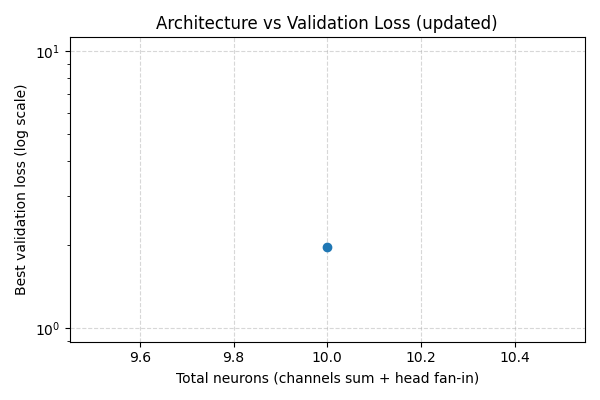
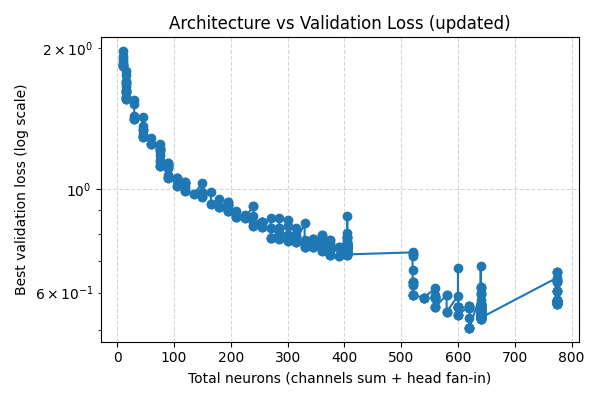
Commit

diff --git a/CNN/run_cnn_stl.py b/CNN/run_cnn_stl.py
@@ -1,69 +1,83 @@
-# train_adp_cnn_width_cifar10.py
+
 import argparse
+import json
+import os
+import time
+from typing import Tuple, List
+
 import torch
+import torch.nn as nn
+import torch.optim as optim
 from torch.utils.data import DataLoader, Subset
 import torchvision
 import torchvision.transforms as T
 
-from adp_cnn_width import Config as Cfg, ADP_CNN_Width
+# Import the STL CNN
+from CNN_STL import ConvNetSTL  # requires CNN_STL.py in the same folder
 
-# --------- CIFAR-10 stats ---------
-CIFAR10_MEAN = (0.4914, 0.4822, 0.4465)
-CIFAR10_STD  = (0.2470, 0.2435, 0.2616)
+# -------------------- CIFAR stats --------------------
+CIFAR10_MEAN, CIFAR10_STD   = (0.4914, 0.4822, 0.4465), (0.2470, 0.2435, 0.2616)
+CIFAR100_MEAN, CIFAR100_STD = (0.5071, 0.4867, 0.4408), (0.2675, 0.2565, 0.2761)
 
-def device_auto():
+
+def device_auto() -> torch.device:
     return torch.device("cuda" if torch.cuda.is_available() else "cpu")
 
-def make_loaders_cifar10(
-    data_root="data",
-    batch_size=128,
-    val_split=5000,   # 10% of the 50k train set by default
-    num_workers=0,
-    pin_memory=True,
-    download=False,   # do NOT re-download unless explicitly asked
-):
+
+def make_loaders(
+    dataset: str,
+    data_root: str = "data",
+    batch_size: int = 128,
+    val_split: int = 5000,
+    num_workers: int = 4,
+    pin_memory: bool = True,
+    download: bool = False,
+) -> Tuple[DataLoader, DataLoader, DataLoader, int]:
     """
-    CIFAR-10 loaders (all 10 classes, full dataset):
-      - train: RandomCrop+Flip + Normalize
-      - val/test: only Normalize
-    Uses separate dataset instances for train/val to avoid transform leakage.
-    Deterministic split with a fixed seed.
+    Create train/val/test loaders for CIFAR-10 or CIFAR-100 with standard aug.
+    Returns loaders and num_classes.
     """
+    dataset = dataset.lower()
+    if dataset not in {"cifar10", "cifar100"}:
+        raise ValueError("dataset must be 'cifar10' or 'cifar100'")
+
+    if dataset == "cifar10":
+        MEAN, STD = CIFAR10_MEAN, CIFAR10_STD
+        ds_train = torchvision.datasets.CIFAR10
+        ds_test  = torchvision.datasets.CIFAR10
+        num_classes = 10
+    else:
+        MEAN, STD = CIFAR100_MEAN, CIFAR100_STD
+        ds_train = torchvision.datasets.CIFAR100
+        ds_test  = torchvision.datasets.CIFAR100
+        num_classes = 100
+
     train_tfms = T.Compose([
         T.RandomCrop(32, padding=4),
         T.RandomHorizontalFlip(),
         T.ToTensor(),
-        T.Normalize(CIFAR10_MEAN, CIFAR10_STD),
+        T.Normalize(MEAN, STD),
     ])
     eval_tfms = T.Compose([
         T.ToTensor(),
-        T.Normalize(CIFAR10_MEAN, CIFAR10_STD),
+        T.Normalize(MEAN, STD),
     ])
 
-    # Independent datasets so transforms don't clash via shared .dataset
-    train_ds_aug = torchvision.datasets.CIFAR10(
-        root=data_root, train=True, download=download, transform=train_tfms
-    )
-    train_ds_eval = torchvision.datasets.CIFAR10(
-        root=data_root, train=True, download=False, transform=eval_tfms
-    )
-    test_ds = torchvision.datasets.CIFAR10(
-        root=data_root, train=False, download=False, transform=eval_tfms
-    )
+    train_ds_aug = ds_train(root=data_root, train=True, download=download, transform=train_tfms)
+    train_ds_eval = ds_train(root=data_root, train=True, download=False, transform=eval_tfms)
+    test_ds = ds_test(root=data_root, train=False, download=False, transform=eval_tfms)
 
-    total_train = len(train_ds_aug)  # 50_000
+    total_train = len(train_ds_aug)
     if val_split >= total_train:
-        # Keep ~20% for validation if requested split is too large
-        val_split = max(1, int(0.2 * total_train))
+        val_split = max(1, int(0.2 * total_train))  # keep ~20% if requested too large
     n_train = total_train - val_split
 
-    # Deterministic split
     g = torch.Generator().manual_seed(42)
     perm = torch.randperm(total_train, generator=g).tolist()
     train_idx_subset = perm[:n_train]
     val_idx_subset   = perm[n_train:]
 
-    train_ds = Subset(train_ds_aug,  train_idx_subset)
+    train_ds = Subset(train_ds_aug, train_idx_subset)
     val_ds   = Subset(train_ds_eval, val_idx_subset)
 
     train_loader = DataLoader(
@@ -81,55 +95,207 @@ def make_loaders_cifar10(
         num_workers=num_workers, pin_memory=pin_memory,
         persistent_workers=(num_workers > 0),
     )
-    return train_loader, val_loader, test_loader
+    return train_loader, val_loader, test_loader, num_classes
+
+
[email redacted]_grad()
+def evaluate(model: nn.Module, loader: DataLoader, device: torch.device) -> Tuple[float, float]:
+    model.eval()
+    total, correct, total_loss = 0, 0, 0.0
+    criterion = nn.CrossEntropyLoss()
+    for x, y in loader:
+        x, y = x.to(device), y.to(device)
+        logits = model(x)
+        total_loss += criterion(logits, y).item() * y.size(0)
+        pred = logits.argmax(dim=1)
+        correct += (pred == y).sum().item()
+        total += y.size(0)
+    return total_loss / total, correct / total
+
+
+def train(
+    model: nn.Module,
+    train_loader: DataLoader,
+    val_loader: DataLoader,
+    device: torch.device,
+    epochs: int = 50,
+    lr: float = 1e-3,
+    weight_decay: float = 1e-4,
+    patience: int = 10,
+    log_every: int = 1,
+) -> dict:
+    model.to(device)
+    criterion = nn.CrossEntropyLoss()
+    optimizer = optim.AdamW(model.parameters(), lr=lr, weight_decay=weight_decay)
+
+    best_val = float("inf")
+    best_acc = 0.0
+    bad = 0
+    history = []
+
+    for epoch in range(1, epochs + 1):
+        model.train()
+        running = 0.0
+        n = 0
+        for x, y in train_loader:
+            x, y = x.to(device), y.to(device)
+            optimizer.zero_grad(set_to_none=True)
+            logits = model(x)
+            loss = criterion(logits, y)
+            loss.backward()
+            optimizer.step()
+            running += loss.item() * y.size(0)
+            n += y.size(0)
+
+        train_loss = running / max(1, n)
+        val_loss, val_acc = evaluate(model, val_loader, device)
+
+        history.append({
+            "epoch": epoch,
+            "train_loss": train_loss,
+            "val_loss": val_loss,
+            "val_acc": val_acc,
+        })
+
+        if epoch % log_every == 0:
+            print(f"[epoch {epoch}/{epochs}] "
+                  f"train_loss={train_loss:.4f} | val_loss={val_loss:.4f} | val_acc={val_acc:.4f}")
+
+        improved = val_loss < best_val - 1e-6  # tiny margin
+        if improved:
+            best_val = val_loss
+            best_acc = val_acc
+            bad = 0
+            torch.save(model.state_dict(), "ConvNetSTL_best.pth")
+        else:
+            bad += 1
+            if bad >= patience:
+                print(f"Early stopping at epoch {epoch} (no improvement for {patience} epochs).")
+                break
+
+    return {
+        "best_val_loss": best_val,
+        "best_val_acc": best_acc,
+        "history": history,
+    }
+
+
+def parse_pooling(arg: str) -> List[int]:
+    """
+    Parse a comma-separated list of integers like '1,3'.
+    Returns a sorted list; empty string -> []
+    """
+    if arg.strip() == "":
+        return []
+    out = sorted({int(x) for x in arg.split(",")})
+    for v in out:
+        if v < 0:
+            raise ValueError("pool indices must be >= 0")
+    return out
+
 
 def main():
-    ap = argparse.ArgumentParser()
-    ap.add_argument("--smoke", action="store_true", help="Tiny budget sanity run")
-    ap.add_argument("--data-root", type=str, default="data", help="Where CIFAR-10 is stored")
-    ap.add_argument("--batch-size", type=int, default=128)
-    ap.add_argument("--num-workers", type=int, default=4)
-    ap.add_argument("--val-split", type=int, default=5000)
-    ap.add_argument("--download", action="store_true", help="Download CIFAR-10 if missing")
-    args = ap.parse_args()
+    parser = argparse.ArgumentParser(description="Run ConvNetSTL on CIFAR-10/100")
+    # Data
+    parser.add_argument("--dataset", type=str, default="cifar100", choices=["cifar10", "cifar100"])
+    parser.add_argument("--data-root", type=str, default="data")
+    parser.add_argument("--batch-size", type=int, default=128)
+    parser.add_argument("--num-workers", type=int, default=4)
+    parser.add_argument("--val-split", type=int, default=5000)
+    parser.add_argument("--download", action="store_true")
 
-    params = dict(
-        delta=0.0,
-        trials_width=10,
-        trials_depth=10,     # kept at 10 if your width-search variant also iterates depth
-        patience=10,
-        max_epochs=100000,
-        init_widths=[10],    # <<< init width = 10
-        num_classes=10,      # full CIFAR-10
-        pooling_indices=[0],
-        lr=1e-3,
-        weight_decay=1e-2,
-        ex_k=10,             # <<< per-loop expansion factor = 10 (if used)
-        max_neurons=1_000_000,
-        max_depth=10000,
-        max_width=10000,
-    )
-    if args.smoke:
-        params.update(dict(max_epochs=5, patience=2))
+    # Model (STL) hyperparameters exposed here
+    parser.add_argument("--width", type=int, default=64, help="channels per block")
+    parser.add_argument("--depth", type=int, default=4, help="number of ConvBNReLU blocks (>=1)")
+    parser.add_argument("--pool", type=parse_pooling, default="1,3",
+                        help="comma-separated block indices after which to apply 2x2 MaxPool, e.g. '1,3'")
 
-    dev = device_auto()
-    train_loader, val_loader, test_loader = make_loaders_cifar10(
+    # Optimization
+    parser.add_argument("--epochs", type=int, default=50)
+    parser.add_argument("--lr", type=float, default=1e-3)
+    parser.add_argument("--weight-decay", type=float, default=1e-4)
+    parser.add_argument("--patience", type=int, default=10)
+
+    # Misc
+    parser.add_argument("--seed", type=int, default=42)
+    parser.add_argument("--device", type=str, default="auto", choices=["auto", "cpu", "cuda"])
+    parser.add_argument("--save-prefix", type=str, default="ConvNetSTL")
+    parser.add_argument("--log-every", type=int, default=1)
+
+    args = parser.parse_args()
+
+    # Seed & device
+    torch.manual_seed(args.seed)
+    if args.device == "auto":
+        device = device_auto()
+    else:
+        device = torch.device(args.device)
+
+    torch.backends.cudnn.benchmark = True
+
+    # Load data
+    train_loader, val_loader, test_loader, num_classes = make_loaders(
+        dataset=args.dataset,
         data_root=args.data_root,
         batch_size=args.batch_size,
-        num_workers=args.num_workers,
         val_split=args.val_split,
+        num_workers=args.num_workers,
         download=args.download,
     )
 
-    cfg = Cfg(**params)
-    model = ADP_CNN_Width(cfg, device=dev)
+    # Build model
+    model = ConvNetSTL(
+        input_channels=3,
+        num_classes=num_classes,
+        width=args.width,
+        depth=args.depth,
+        pooling_indices=args.pool,
+    )
 
-    model.fit(train_loader, val_loader)
-    test_loss, test_acc = model.evaluate(test_loader)
-    print(f"[ADP_CNN_Width-CIFAR10] test_loss={test_loss:.4f} acc={test_acc:.4f}")
+    # Train
+    t0 = time.time()
+    stats = train(
+        model, train_loader, val_loader, device,
+        epochs=args.epochs, lr=args.lr, weight_decay=args.weight_decay,
+        patience=args.patience, log_every=args.log_every
+    )
+    train_time = time.time() - t0
 
-    torch.save(model.model.state_dict(), "ADP_CNN_Width_CIFAR10.pth")
-    print("Saved: ADP_CNN_Width_CIFAR10.pth")
+    # Evaluate best checkpoint on test
+    if os.path.exists("ConvNetSTL_best.pth"):
+        model.load_state_dict(torch.load("ConvNetSTL_best.pth", map_location=device))
+    test_loss, test_acc = evaluate(model.to(device), test_loader, device)
+
+    # Save final artifacts
+    out_prefix = args.save_prefix
+    final_path = f"{out_prefix}.pth"
+    torch.save(model.state_dict(), final_path)
+
+    report = {
+        "dataset": args.dataset,
+        "num_classes": num_classes,
+        "width": args.width,
+        "depth": args.depth,
+        "pooling_indices": args.pool,
+        "epochs": args.epochs,
+        "lr": args.lr,
+        "weight_decay": args.weight_decay,
+        "patience": args.patience,
+        "best_val_loss": stats["best_val_loss"],
+        "best_val_acc": stats["best_val_acc"],
+        "test_loss": test_loss,
+        "test_acc": test_acc,
+        "train_time_sec": train_time,
+        "checkpoint_best": "ConvNetSTL_best.pth" if os.path.exists("ConvNetSTL_best.pth") else None,
+        "final_model": final_path,
+    }
+    with open(f"{out_prefix}_report.json", "w") as f:
+        json.dump(report, f, indent=2)
+
+    print(f"\nSaved final weights to: {final_path}")
+    print(f"Saved report to      : {out_prefix}_report.json")
+    print(f"[TEST] loss={test_loss:.4f} acc={test_acc:.4f}")
+
 
 if __name__ == "__main__":
     main()